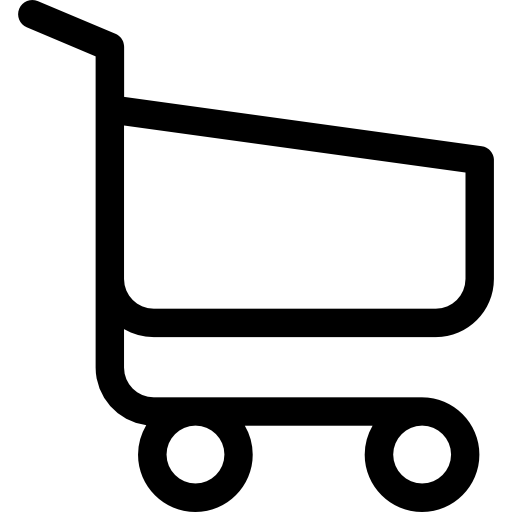
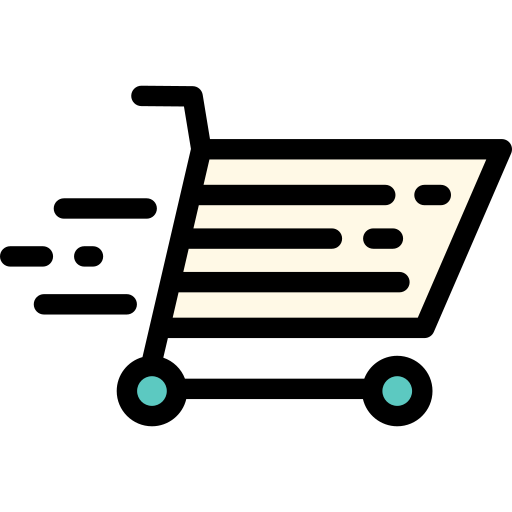
Criado cammpo para buscar produtos e adicionado icone de carrinho

diff --git a/Front-End/js/app.js b/Front-End/js/app.js
@@ -1,6 +1,6 @@
 import { realizarLogin, realizarLoginCliente, novaConta, voltarCadastro, solicitarCodigoValidacao, verificarConta } from "./login.js";
 import { carregarDados, sair, adicionarProduto, adicionarProdutoNovo, novaFotoProduto, 
-         salvarEdicao, confirmarExclusao, cancelar } from "./inicio.js";
+         salvarEdicao, confirmarExclusao, cancelar, buscarProduto } from "./inicio.js";
 import { inicializarPopupUsuario } from "./perfil.js";
 
 document.addEventListener("DOMContentLoaded", () => {
@@ -18,6 +18,7 @@ document.addEventListener("DOMContentLoaded", () => {
     const voltar = document.getElementById("voltar");
     const excluir = document.getElementById("confirmarExclusao");
     const sairExclusao = document.getElementById("cancelarExclusao");
+    const buscar = document.getElementById("buscar");
 
     if (botaoLogin) {
         botaoLogin.addEventListener("click", realizarLogin);
@@ -38,6 +39,7 @@ document.addEventListener("DOMContentLoaded", () => {
         sairAdicao.addEventListener("click", cancelar);
         excluir.addEventListener("click", confirmarExclusao);
         sairExclusao.addEventListener("click", cancelar);
+        buscar.addEventListener("click", buscarProduto);
         inicializarPopupUsuario();
     }
 })

diff --git a/Front-End/js/inicio.js b/Front-End/js/inicio.js
@@ -36,6 +36,8 @@ function carregarDados() {
     if (idEmpresa) {
         listaProdutos(idEmpresa);
     } else if (!idEmpresa && nomeCliente) {
+        document.getElementById("adicionar").style.display = "none";
+        document.getElementById("pesquisas").style.display = "block";
         listaProdutoClientes();
     }
 }
@@ -398,7 +400,23 @@ async function confirmarExclusao() {
     }
 }
 
+function buscarProduto() {
+    const termoBusca = document.getElementById("pesquisaProduto").value.trim().toLowerCase();
+    const listaProdutos = document.getElementById("listaProdutos");
+    const produtos = listaProdutos.getElementsByClassName("produto");
+
+    Array.from(produtos).forEach(produto => {
+        const nomeProduto = produto.querySelector(".nomeProduto").textContent.toLowerCase();
+
+        if (nomeProduto.includes(termoBusca)) {
+            produto.style.display = "block";
+        } else {
+            produto.style.display = "none";
+        }
+    });
+}
+
 export {
     carregarDados, sair, adicionarProduto, adicionarProdutoNovo, novaFotoProduto,
-    salvarEdicao, cancelar, confirmarExclusao, getCookie
+    salvarEdicao, cancelar, confirmarExclusao, buscarProduto, getCookie
 }

diff --git a/Front-End/inicio.html b/Front-End/inicio.html
@@ -73,6 +73,10 @@
 		  </div>
 		<div id="tituloTabela" class="-flex">
 			<p><em>Produtos</em></p>
+			<div id="pesquisas" class="-flex" style="gap: 10px; display: none;">
+				<input id="pesquisaProduto" class="inputTamanho preto" type="text" placeholder="Pesquisar Produto">
+				<button id="buscar" class="botao branco">Buscar</button>
+			</div>
 			<button id="adicionar" class="botao branco">Adicionar</button>
 		</div>
 		<div id="fundoModal" class="-flex" style="display: none">

diff --git a/Front-End/js/perfil.js b/Front-End/js/perfil.js
@@ -13,6 +13,9 @@ export function inicializarPopupUsuario() {
   const nomeCliente = getCookie("nomeCliente");
 
   if (!idEmpresa && nomeCliente) {
+    iconeUsuario.src = "./assets/icone/carrinho.png";
+    iconeUsuario.style.marginLeft = "10px";
+    iconeUsuario.style.marginRight = "15px";
     return;
   }
 

diff --git a/Front-End/css/inicio.css b/Front-End/css/inicio.css
@@ -246,3 +246,7 @@
     -webkit-appearance: none;
     margin: 0;
 }
+
+#pesquisaProduto {
+    width: 200px;
+}
